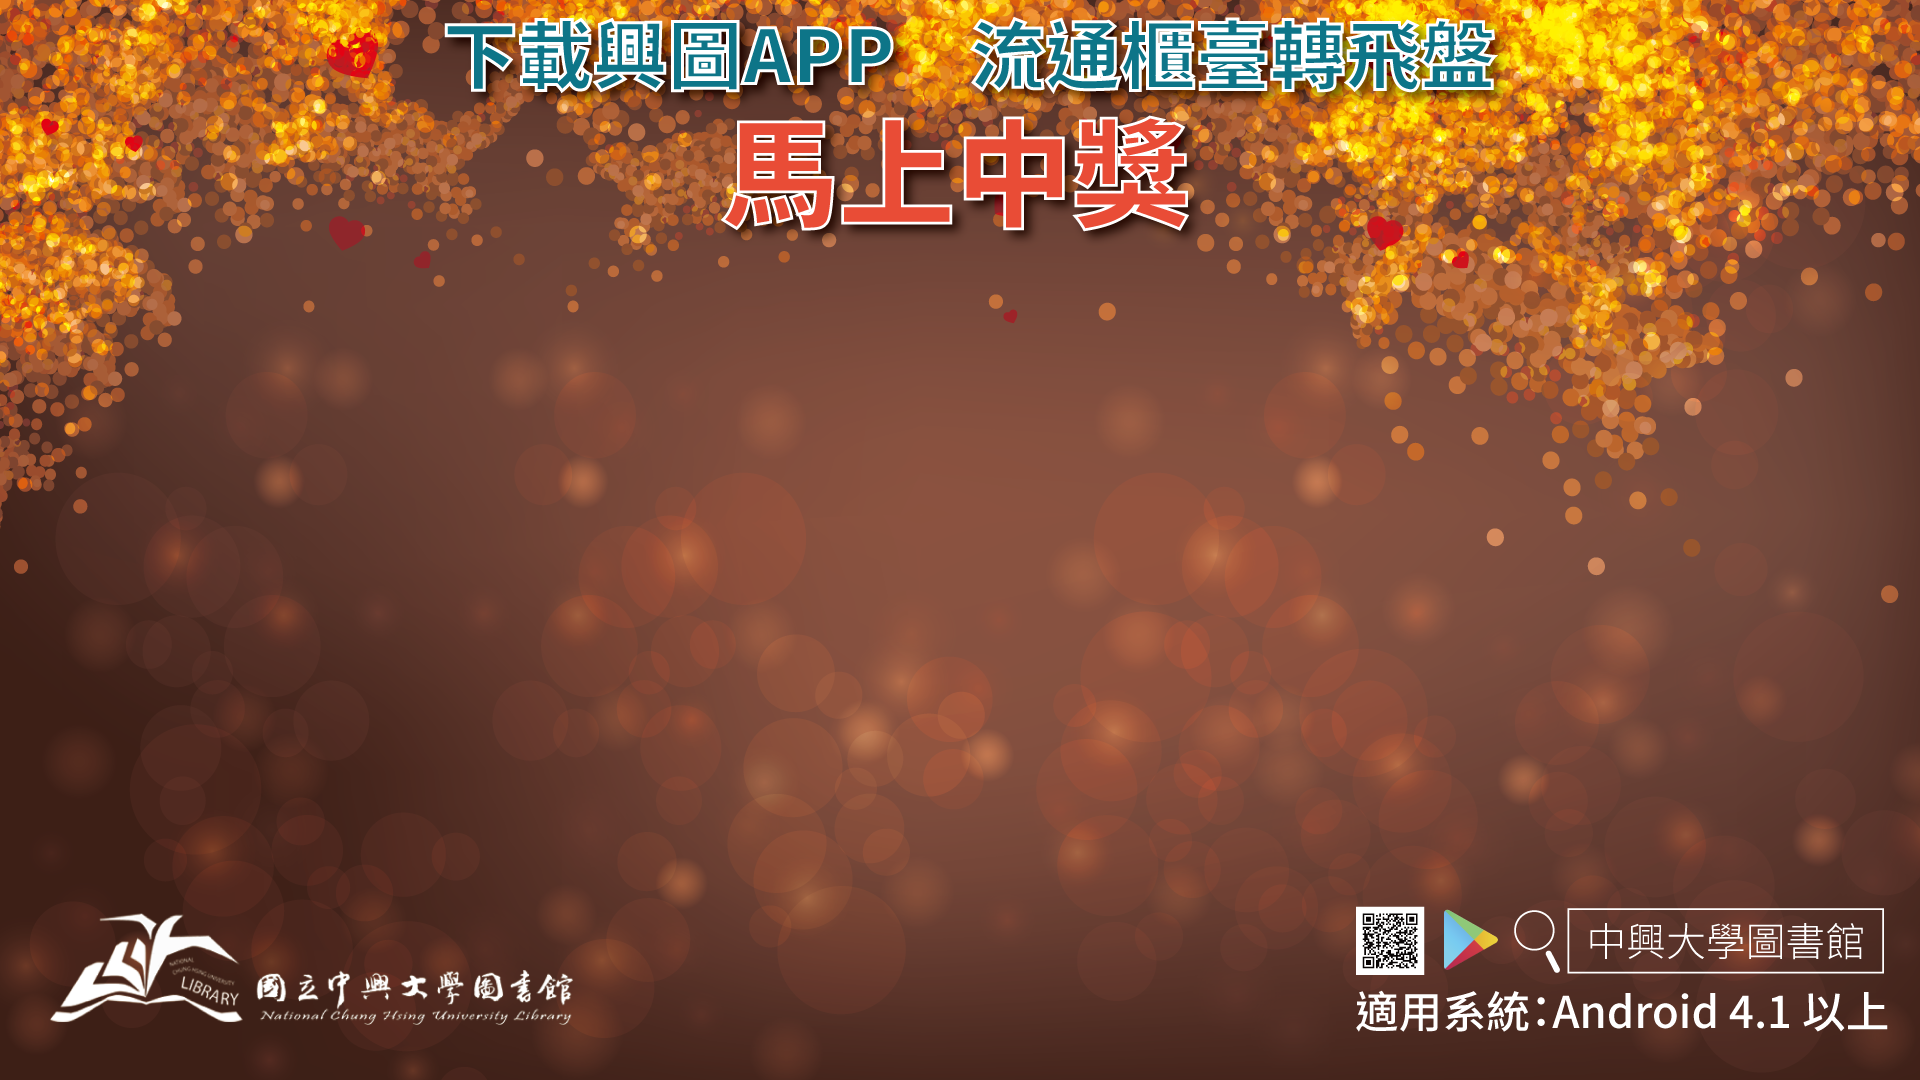
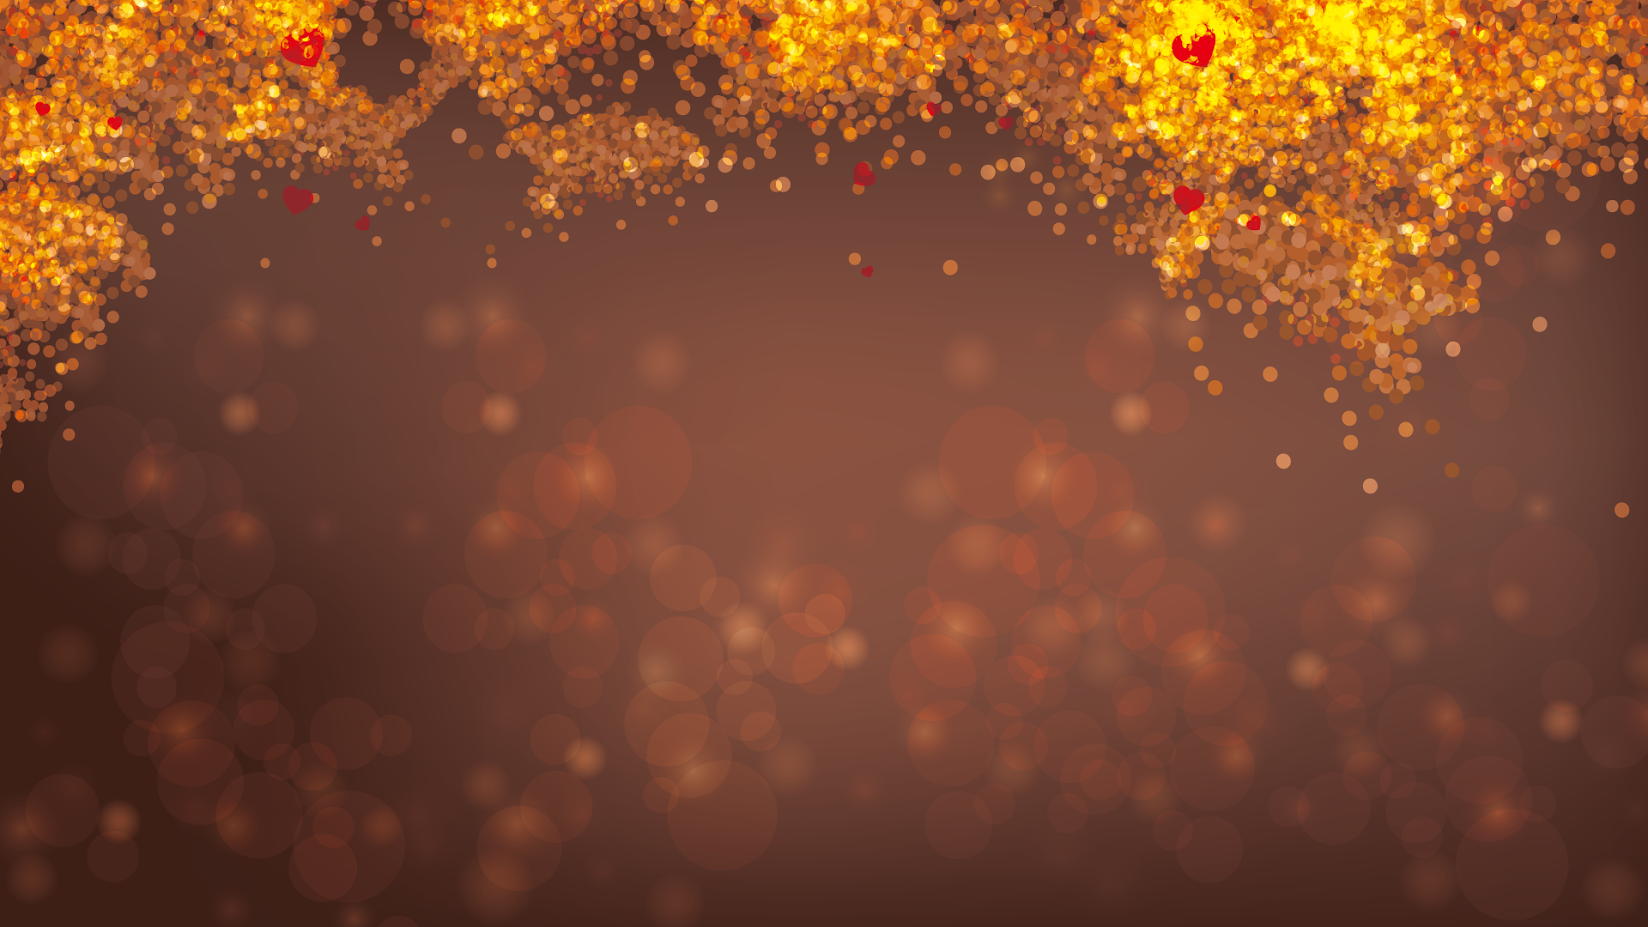
:cat2:change img & web view

Changed region(s): [[0.2166, 0.0, 0.8046, 0.2416], [0.6808, 0.8155, 0.9903, 0.9666], [0.0309, 0.8457, 0.3095, 0.9666]]

diff --git a/js/jquery.lazyload.min.js b/js/jquery.lazyload.min.js
@@ -1,0 +1,2 @@
+/*! Lazy Load 1.9.1 - MIT license - Copyright 2010-2013 Mika Tuupola */
[1 lines of base64/hex data omitted]

diff --git a/js/wheel.js b/js/wheel.js
@@ -94,22 +94,23 @@ $(document).ready(function($) {
         console.log(slicePrizes[prize]);
 
         $('#prizeImage').attr('src', './img/' + slicePrizes[prize] + '.png');
-        $('#prizeImage').load(function(){
-          $('.ui.modal').modal({
-            onHide: function() {
-              // console.log('hidden');
-              audio.pause();
-              audio.currentTime = 0;
-            },
-            onShow: function() {
-              // console.log('shown');
-              audio.play();
-            }
-          }).modal('show');
-          return console.log(slicePrizes[prize]);
-         });
+        $('.ui.modal').modal({
+          onHide: function() {
+            // console.log('hidden');
+            audio.pause();
+            audio.currentTime = 0;
+          },
+          onShow: function() {
+            // console.log('shown');
+            audio.play();
+          }
+        }).modal('show');
+        return console.log(slicePrizes[prize]);
       }
   }
   $('.ui.modal').modal('hide');
+  $("img.lazy").lazyload({
+    effect : "fadeIn"
+  });
   // game.new($(document).width(), $(document).height(), 'wheel');
 });

diff --git a/index.html b/index.html
@@ -9,6 +9,14 @@
   <link rel="stylesheet" type="text/css" href="./css/main.css">
 </head>
 <body>
+  <div id="fullPage">
+    <img class="lazy" id="qr" data-original="../img/qr.png" width="230" height="230">
+    <img class="lazy" id="adlogo" data-original="../img/adlogo.png">
+    <img class="lazy" id="liblogo" data-original="../img/liblogo.png">
+    <img class="lazy titleImg" id="title1" data-original="../img/title1.png">
+    <img class="lazy titleImg" id="title2" data-original="../img/title2.png">
+  </div>
+
   <div class="allCenter" id="main">
     <div class="ui container">
       <div id="wheel">
@@ -18,7 +26,7 @@
   <div class="ui modal">
     <i class="close icon"></i>
     <div class="content">
-      <img id="prizeImage" src="">
+      <img id="prizeImage" src="" width="800" height="600">
     </div>
   </div>
 
@@ -27,6 +35,7 @@
   </audio>
 
   <script src="./js/jquery-2.2.4.min.js"></script>
+  <script src="./js/jquery.lazyload.min.js"></script>
   <script src="./js/semantic.min.js"></script>
   <script src="./js/phaser.min.js" charset="utf-8"></script>
   <script src="./js/wheel.js" charset="utf-8"></script>

diff --git a/css/main.css b/css/main.css
@@ -12,11 +12,46 @@ h1, h3, h4, p {
   font-family:'Roboto', '黑體-繁', '微軟正黑體', sans-serif !important;
 }
 canvas {
-  max-width: 620px;
+  max-width: 930px;
   width: 100% !important;
   height: auto !important;
   margin: 0 auto;
 }
+#fullPage {
+  height: 100%;
+  width: 100%;
+  position: absolute;
+  z-index: -1;
+}
+#fullPage img {
+  position: absolute;
+}
+
+#qr {
+  right: 0;
+}
+#adlogo {
+  bottom: 0;
+  right: 0;
+}
+#liblogo {
+  bottom: 0;
+  left: 0;
+}
+.titleImg {
+  top: 0;
+  bottom: 0;
+  margin: auto;
+}
+#title1 {
+  left: 0;
+  width: 260px;
+}
+#title2 {
+  right: 0;
+  width: 190px;
+}
+
 .allCenter {
   flex-direction: column;
   display: -webkit-flex;
@@ -30,12 +65,6 @@ canvas {
   width: 100%;
   height: 100%;
 }
-.ui.container {
-  margin-top: 140px;
-}
 .modal {
   text-align: center !important;
-}
-#prizeImage {
-  width: 100%;
 }
